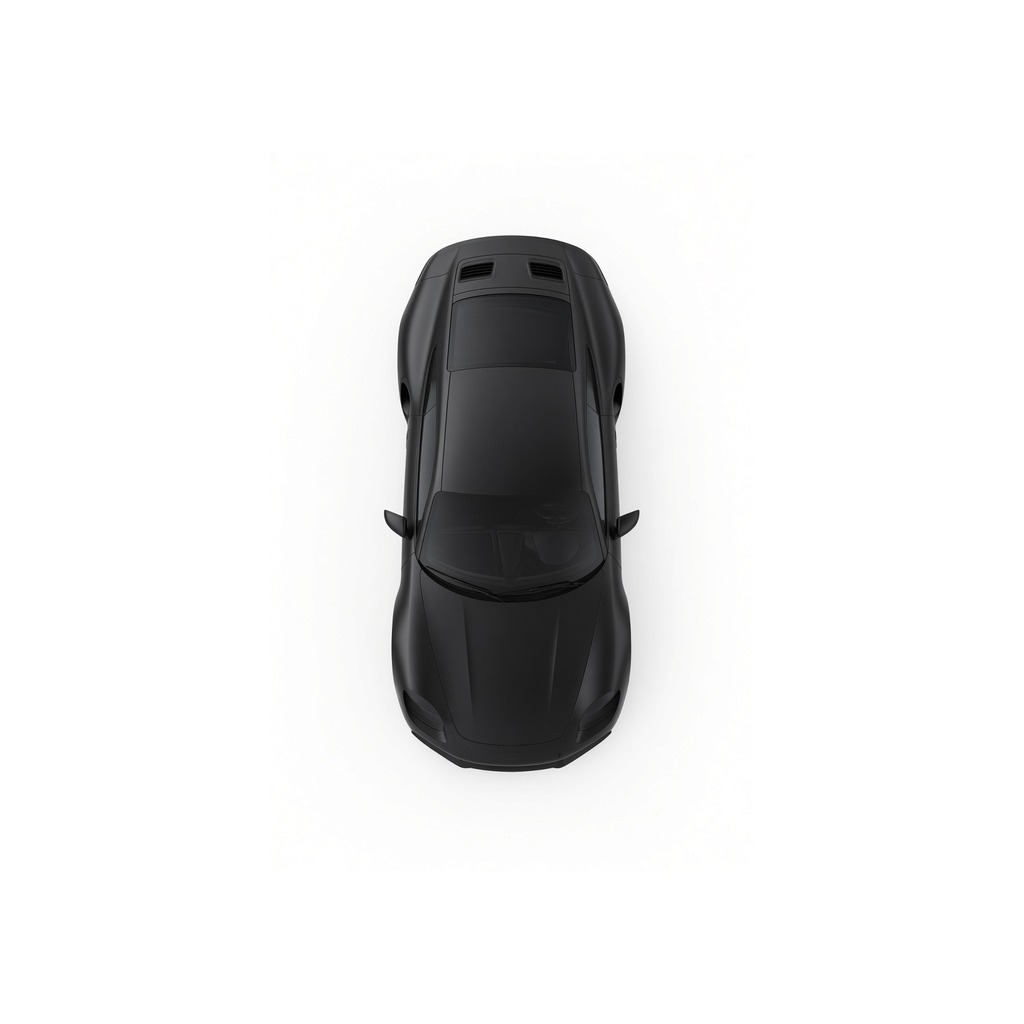
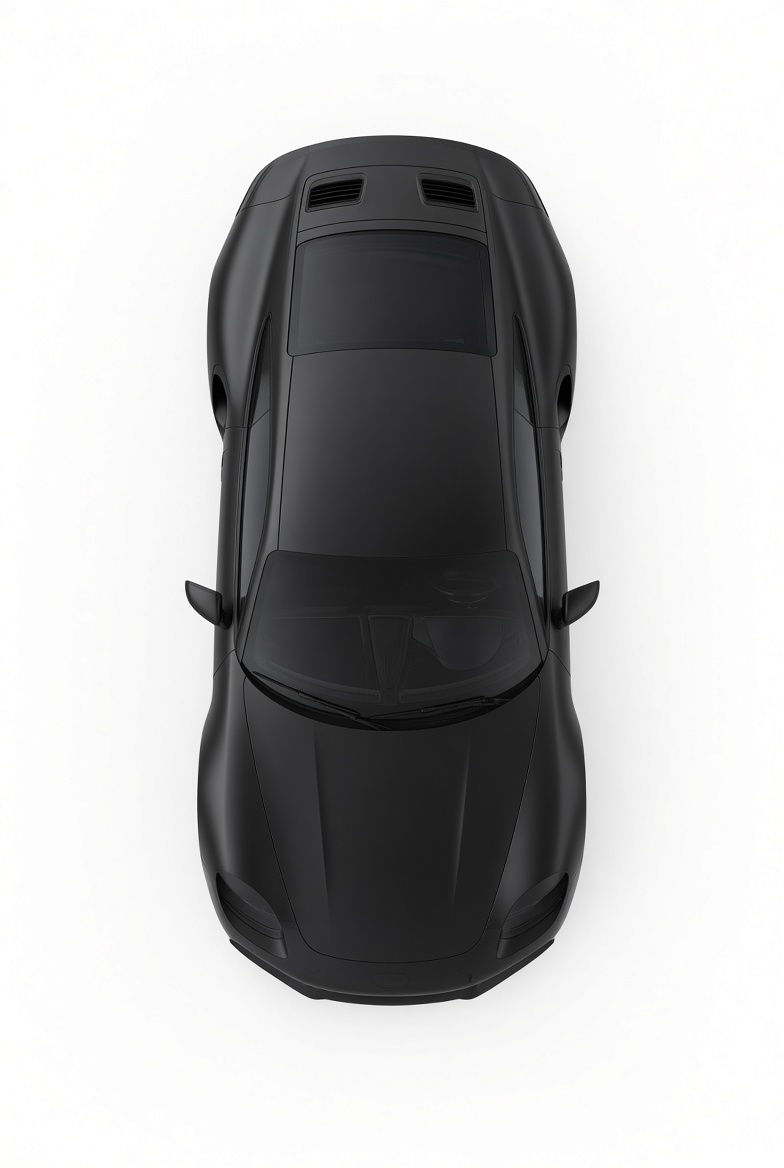
Imagine: full car, nose DOWN; replace style-lock with full overhead ref

Changed region(s): [[0.2143, 0.0938, 0.7959, 0.875]]

diff --git a/src/lib/imagine/thumb-prompt.ts b/src/lib/imagine/thumb-prompt.ts
@@ -1,11 +1,11 @@
 /**
- * Locked Palmetto studio tile template — product photography contract.
- * Only car identity (year/make/model/color from references) may change.
+ * Locked Palmetto studio tile template.
  *
- * Orientation (confirmed from approved tiles):
- *   FRONT of car (bumper / headlights / grille) → BOTTOM of the square
- *   ROOF / mid-body / rear of the crop → TOP of the square
- *   Rear wing/spoiler sits near the TOP when visible — never at the bottom.
+ * Approved composition (every tile):
+ *   - FULL car visible (nose to tail)
+ *   - Nose / front bumper points DOWN (toward bottom of square)
+ *   - Rear / wing points UP (toward top of square)
+ *   - High bird's-eye, pure white, soft shadow
  */
 
 export type ThumbSubject = {
@@ -17,78 +17,58 @@ export type ThumbSubject = {
   bodyStyle?: string;
 };
 
-/**
- * Create a clean, high-end product photography thumbnail of the exact car
- * in the reference images. Composition is locked for inventory-grid consistency.
- */
 export function buildThumbEditPrompt(car: ThumbSubject): string {
   const label = [car.year, car.make, car.model, car.trim].filter(Boolean).join(" ");
   const colorBit = car.exteriorColor?.trim()
-    ? `Match the exact paint color from the references (${car.exteriorColor}).`
-    : `Match the exact paint color, body lines, badges, and wheels from the reference images.`;
+    ? `Exact paint from references: ${car.exteriorColor}.`
+    : `Exact paint, body lines, badges, and wheels from the subject references.`;
 
   return (
-    `Professional luxury-car inventory thumbnail of the exact vehicle in the subject reference photos ` +
-    `(this real ${label} only — faithful body lines, badges, wheels, paint). ${colorBit} ` +
-    // —— Orientation (matches approved Palmetto tiles) ——
-    `ORIENTATION (non-negotiable — match the approved inventory look): ` +
-    `the FRONT of the car points toward the BOTTOM of the square frame. ` +
-    `Front bumper, headlights, grille, and brand badge sit in the LOWER portion of the image. ` +
-    `The roof / cabin / mid-body extend toward the TOP of the frame. ` +
-    `Any rear wing, spoiler, or rear deck that remains in the crop sits near the TOP — never at the bottom. ` +
-    `WRONG (never do this): front bumper at the top, headlights at the top, or rear wing at the bottom. That is upside down. ` +
-    `RIGHT: bottom of image = nose/front; top of image = roof / toward the rear. ` +
-    // —— Hard ban on wrong angles ——
-    `HARD BAN — never produce: front 3/4 hero, side 3/4, low front view, eye-level driveway shot, ` +
-    `rolling shot, diagonal corner view, convertible glamour pose, or full side profile. ` +
-    `If the subject photo is 3/4, side, or low angle, IGNORE that camera — rebuild as overhead with front at BOTTOM. ` +
+    `Create a photorealistic luxury dealership inventory thumbnail of this exact car: ${label}. ${colorBit} ` +
+    // —— Full car ——
+    `SHOW THE ENTIRE CAR — nose to tail, complete silhouette. Do not crop to front half only. ` +
+    `Wheels, side mirrors, roof, rear bumper, and any rear wing must all be visible inside the frame. ` +
+    // —— Orientation (critical) ——
+    `ORIENTATION LOCK: the nose of the car points DOWN. ` +
+    `Front bumper, headlights, and grille are at the BOTTOM of the image. ` +
+    `The rear of the car (tail lights, rear bumper, rear wing/spoiler) is at the TOP of the image. ` +
+    `Think: the car is driving toward the bottom edge of the square. ` +
+    `NEVER put the nose at the top. NEVER put the rear wing at the bottom. That is upside down and rejected. ` +
     // —— Camera ——
-    `CAMERA: high bird's-eye product shot looking down at the front half of the car. ` +
-    `Nearly straight down with a tiny pitch so the hood and roof are clearly visible. ` +
-    `Body axis vertical on the square, perfectly centered left-right. ` +
-    // —— Crop ——
-    `FRAMING: front half of the car — from the front bumper (near the BOTTOM of the frame) ` +
-    `through roughly mid-roof / just past the windshield (toward the TOP). Crop the far rear if needed. ` +
-    `For cars with large rear wings (GT2 RS, GT cars): if the wing is in frame, it must be near the TOP, not the bottom. ` +
-    `SCALE / MARGINS: car fills about 65–75% of the square with ~10–15% even white margin on all sides. ` +
-    `Never clip the front bumper, mirrors, or roof. Never edge-to-edge zoom. Never a tiny floating car. ` +
-    // —— Background / shadow ——
-    `BACKGROUND: pure seamless #FFFFFF. No gradient, floor line, props, or environment. ` +
-    `SHADOW: one soft realistic contact/drop shadow under the car — light grey, short, diffused. ` +
-    // —— Light / realism ——
-    `LIGHTING: soft-box studio, even, gentle paint reflections. No hard specular blowouts. ` +
-    `RENDER: photoreal dealership photography. Not plastic, toy, or CGI. ` +
-    `No text, logos, watermarks, people, or extra objects. Single 1:1 square thumbnail-ready image.`
+    `CAMERA: strict high bird's-eye / overhead product shot, looking nearly straight down from above. ` +
+    `Slight depth so hood and roof read clearly. Body axis vertical, car centered. ` +
+    `NOT a 3/4 hero angle, NOT eye-level, NOT side profile, NOT a low front shot. ` +
+    // —— Scale ——
+    `SCALE: whole car fits comfortably in the square (~70% of frame height) with even white margin on all four sides (~8–12%). ` +
+    `Nothing clipped. Not a tiny floating toy. ` +
+    // —— Studio ——
+    `BACKGROUND: pure seamless #FFFFFF only. ` +
+    `SHADOW: soft short contact shadow under the car. ` +
+    `LIGHTING: soft-box studio, even, realistic paint and glass. Photoreal — not CGI plastic. ` +
+    `No text, logos, watermarks, people, or props. Output one 1:1 square image.`
   );
 }
 
-/** Text-only fallback — same locked geometry when no reference photo is available. */
 export function buildThumbTextPrompt(car: ThumbSubject): string {
   const label = [car.year, car.make, car.model, car.trim].filter(Boolean).join(" ");
-  const color = car.exteriorColor?.trim() || "accurate factory color from the model";
+  const color = car.exteriorColor?.trim() || "factory-accurate color";
   return (
-    `Professional luxury-car inventory thumbnail of a ${label} in ${color}. ` +
-    `ORIENTATION: front bumper/headlights/grille at the BOTTOM of the frame; roof toward the TOP; rear wing near the TOP if visible. ` +
-    `Never put the nose at the top (that is upside down). ` +
-    `HARD BAN: no front 3/4, no side 3/4, no eye-level hero. High bird's-eye front-half crop. ` +
-    `Car fills 65–75% of the square with ~10–15% white margin on all sides. ` +
-    `Pure #FFFFFF, soft under-car drop shadow. Photoreal dealership studio photo. No text or logos.`
+    `Photoreal luxury inventory thumbnail of a complete ${label} in ${color}. ` +
+    `ENTIRE car nose-to-tail visible. ` +
+    `ORIENTATION: nose points DOWN — front bumper at BOTTOM of frame, rear/wing at TOP. Never upside down. ` +
+    `High bird's-eye overhead only. Pure #FFFFFF, soft under-car shadow, even margins. No 3/4 angles. No text.`
   );
 }
 
-/**
- * Dual-image contract: style-lock is composition master; subject is identity only.
- * generate-thumb attaches style-lock as image[0], subject as image[1].
- */
+/** Style lock = lighting / overhead full-car template. Subject = identity only. */
 export function buildStyleLockAddendum(): string {
   return (
-    ` DUAL-IMAGE RULES (mandatory): Image 0 is the COMPOSITION MASTER (style lock). ` +
-    `Image 1 is the CAR IDENTITY ONLY (subject listing photos). ` +
-    `Output MUST match Image 0 for: camera height, pitch, orientation with FRONT at BOTTOM of frame and roof toward TOP, ` +
-    `front-half crop, balanced margins, soft under-car shadow, pure white background. ` +
-    `Output MUST match Image 1 for: body shape, paint, badges, wheels, unique details. ` +
-    `Discard Image 1's camera angle, rotation, and crop entirely. ` +
-    `If unsure which way is up: headlights and front badge go toward the BOTTOM edge; rear wing/spoiler toward the TOP. ` +
-    `Think: drop the car from Image 1 into Image 0's overhead template — front at bottom, never upside down.`
+    ` DUAL-IMAGE RULES: Image 0 is the overhead studio TEMPLATE (full car, nose DOWN / front at bottom). ` +
+    `Image 1 is the SUBJECT car identity only (paint, body, badges, wheels). ` +
+    `Output MUST match Image 0 for: full-car framing, nose-DOWN orientation (front at BOTTOM, rear at TOP), ` +
+    `overhead camera, white background, soft shadow, and margins. ` +
+    `Output MUST match Image 1 for car identity only. ` +
+    `Discard Image 1's angle and rotation completely. If Image 1 is upside down or 3/4, rebuild correctly. ` +
+    `Final check: headlights near the BOTTOM edge of the square; rear wing/tail near the TOP.`
   );
 }
